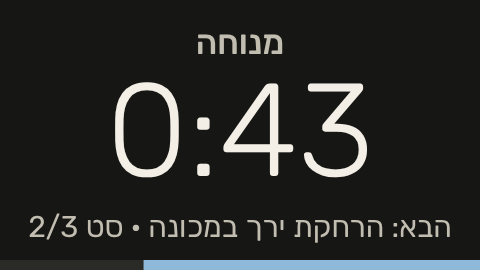
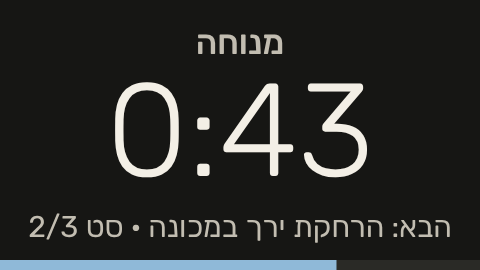
טיימרים — תיקונים מסקירה עצמית: ערוץ השמע חוזר תמיד, כיוון הפס בחלון הצף, שחרור הווידאו
- timerSound: החזרת סוג ערוץ השמע (playback → הסוג הקודם) הייתה באותו
  טיימר של השהיית ההקשר, שמתבטל כשמתחיל טיימר חדש. נגיעה ב"רשום סט" בזמן
  הצפצוף הייתה משאירה את הדף על ערוץ שלא מתערבב עם מוזיקה עד סוף האימון.
  עכשיו ההחזרה נפרדת ולא מתבטלת; נספרים צפצופים חופפים.
- floatingTimer: פס ההתקדמות בחלון הצף היה צמוד לימין, הפוך מהפס שבמסך.
  עכשיו בשניהם מה שנשאר צמוד לשמאל ומה שעבר מתרוקן מימין — הזמן זורם
  מימין לשמאל, כמו בגרפים (החלטה 1).
- useFloatingTimer: כשהדפדפן מסרב לפתוח את החלון, הווידאו שהוכן מראש
  משתחרר (קודם המשיך להתנגן מוסתר).

timers.json והצילום של החלון הצף עודכנו.

Claude-Session: https://claude.ai/code/session_011KUJsvgwhBbeHUcFRbC5RX

Changed region(s): [[0.6875, 0.9481, 1.0, 1.0], [0.0, 0.9481, 0.3125, 1.0]]

diff --git a/src/hooks/timerSound.ts b/src/hooks/timerSound.ts
@@ -29,6 +29,9 @@ let ctx: AudioContext | null = null;
 /** ההקשר עבר מחווה של המשתמש לפחות פעם אחת בחיי הדף. */
 let unlocked = false;
 let releaseTimer: number | null = null;
+/** כמה צפצופים מתנגנים כרגע, וסוג ערוץ השמע שהיה לפני הראשון מהם. */
+let alertsPlaying = 0;
+let sessionTypeBefore: string | null = null;
 
 /** שלושה צלילים עולים: סול5, דו6, מי6. [התחלה בשניות, תדר]. */
 const NOTES: readonly (readonly [number, number])[] = [
@@ -125,22 +128,30 @@ export async function playAlert(hold = false): Promise<boolean> {
   cancelRelease();
 
   // iOS: "playback" לא מושתק במתג השקט. רק סביב הצפצוף, ורק אם ה-API קיים.
+  // הסוג הקודם נשמר פעם אחת ומוחזר כשהצפצוף האחרון מסתיים — גם אם טיימר
+  // חדש התחיל בינתיים, כדי שהדף לא יישאר על ערוץ שלא מתערבב עם מוזיקה.
   const session = audioSession();
-  let previousType: string | null = null;
+  alertsPlaying += 1;
   try {
     if (session && session.type !== 'playback') {
-      previousType = session.type;
+      sessionTypeBefore = session.type;
       session.type = 'playback';
     }
   } catch {
-    previousType = null;
+    sessionTypeBefore = null;
   }
+  let restored = false;
   const restoreSession = () => {
+    if (restored) return;
+    restored = true;
+    alertsPlaying = Math.max(0, alertsPlaying - 1);
+    if (alertsPlaying > 0) return;
     try {
-      if (session && previousType !== null) session.type = previousType;
+      if (session && sessionTypeBefore !== null) session.type = sessionTypeBefore;
     } catch {
       /* לא קריטי */
     }
+    sessionTypeBefore = null;
   };
 
   try {
@@ -182,16 +193,17 @@ export async function playAlert(hold = false): Promise<boolean> {
     return false;
   }
 
-  // אחרי הצפצוף: מחזירים את סוג הערוץ, ומשהים את ההקשר אם אין טיימר נוסף —
-  // כדי שהדף לא יחזיק ערוץ שמע פעיל בין מנוחות.
-  releaseTimer = window.setTimeout(
-    () => {
+  // אחרי הצפצוף: מחזירים את סוג הערוץ (תמיד), ומשהים את ההקשר אם אין טיימר
+  // נוסף — כדי שהדף לא יחזיק ערוץ שמע פעיל בין מנוחות. ההשהיה מתבטלת אם
+  // התחיל טיימר חדש בינתיים (`primeAudio`); החזרת הסוג לא.
+  const afterMs = Math.ceil((ALERT_SEC + 0.25) * 1000);
+  window.setTimeout(restoreSession, afterMs);
+  if (!hold) {
+    releaseTimer = window.setTimeout(() => {
       releaseTimer = null;
-      restoreSession();
-      if (!hold) releaseAudio();
-    },
-    Math.ceil((ALERT_SEC + 0.25) * 1000),
-  );
+      releaseAudio();
+    }, afterMs);
+  }
   return true;
 }
 

diff --git a/src/hooks/floatingTimer.ts b/src/hooks/floatingTimer.ts
@@ -100,13 +100,13 @@ export function drawFloating(g: CanvasRenderingContext2D, c: FloatingContent): v
     g.fillText(fit(g, c.sub, W - 40), W / 2, c.big ? 228 : H / 2 + 28);
   }
 
-  // פס התקדמות בתחתית: כמה נשאר.
+  // פס התקדמות בתחתית: כמה נשאר. מה שנשאר צמוד לשמאל ומה שעבר מתרוקן
+  // מימין — הזמן זורם מימין לשמאל, כמו בפס הטיימר במסך ובגרפים.
   g.fillStyle = track;
   g.fillRect(0, H - 10, W, 10);
   if (c.fraction > 0) {
     g.fillStyle = accent;
-    // RTL: הפס מתרוקן לכיוון ימין, כמו בפס הטיימר במסך.
-    g.fillRect(W - W * c.fraction, H - 10, W * c.fraction, 10);
+    g.fillRect(0, H - 10, W * c.fraction, 10);
   }
   g.restore();
 }

diff --git a/src/components/RestTimerBar.tsx b/src/components/RestTimerBar.tsx
@@ -43,7 +43,7 @@ export default function RestTimerBar({ timer, soundEnabled, onToggleSound, float
 
   return (
     <div className={`resttimer${timer.finished ? ' is-finished' : ''}`}>
-      {/* פס דק: כמה נשאר. מתרוקן לכיוון ימין. */}
+      {/* פס דק: כמה נשאר. מה שעבר מתרוקן מימין — הזמן זורם מימין לשמאל. */}
       <div className="resttimer__progress" aria-hidden="true">
         <span style={{ '--left': timer.running && !timer.stopwatch ? timer.fractionLeft : 0 } as CSSProperties} />
       </div>

diff --git a/src/styles.css b/src/styles.css
@@ -1138,7 +1138,8 @@ button {
   background: var(--surface-3);
 }
 
-/* פס דק בראש: כמה נשאר. מתרוקן לכיוון ימין (ההתחלה ב-RTL). */
+/* פס דק בראש: כמה נשאר. מה שנשאר צמוד לשמאל ומה שעבר מתרוקן מימין —
+   הזמן זורם מימין לשמאל, כמו בגרפים (החלטה 1). */
 .resttimer__progress {
   height: 3px;
   background: var(--line);

diff --git a/src/hooks/useFloatingTimer.ts b/src/hooks/useFloatingTimer.ts
@@ -35,7 +35,11 @@ export function useFloatingTimer(timer: RestTimer, visible: boolean): FloatingCo
       return true;
     }
     const ok = await floatingTimer.open();
-    if (!ok) setFailed(true);
+    if (!ok) {
+      // הדפדפן סירב: הכפתור נעלם עד הטעינה הבאה, והווידאו המוכן משתחרר.
+      setFailed(true);
+      floatingTimer.dispose();
+    }
     return ok;
   }, []);
 
